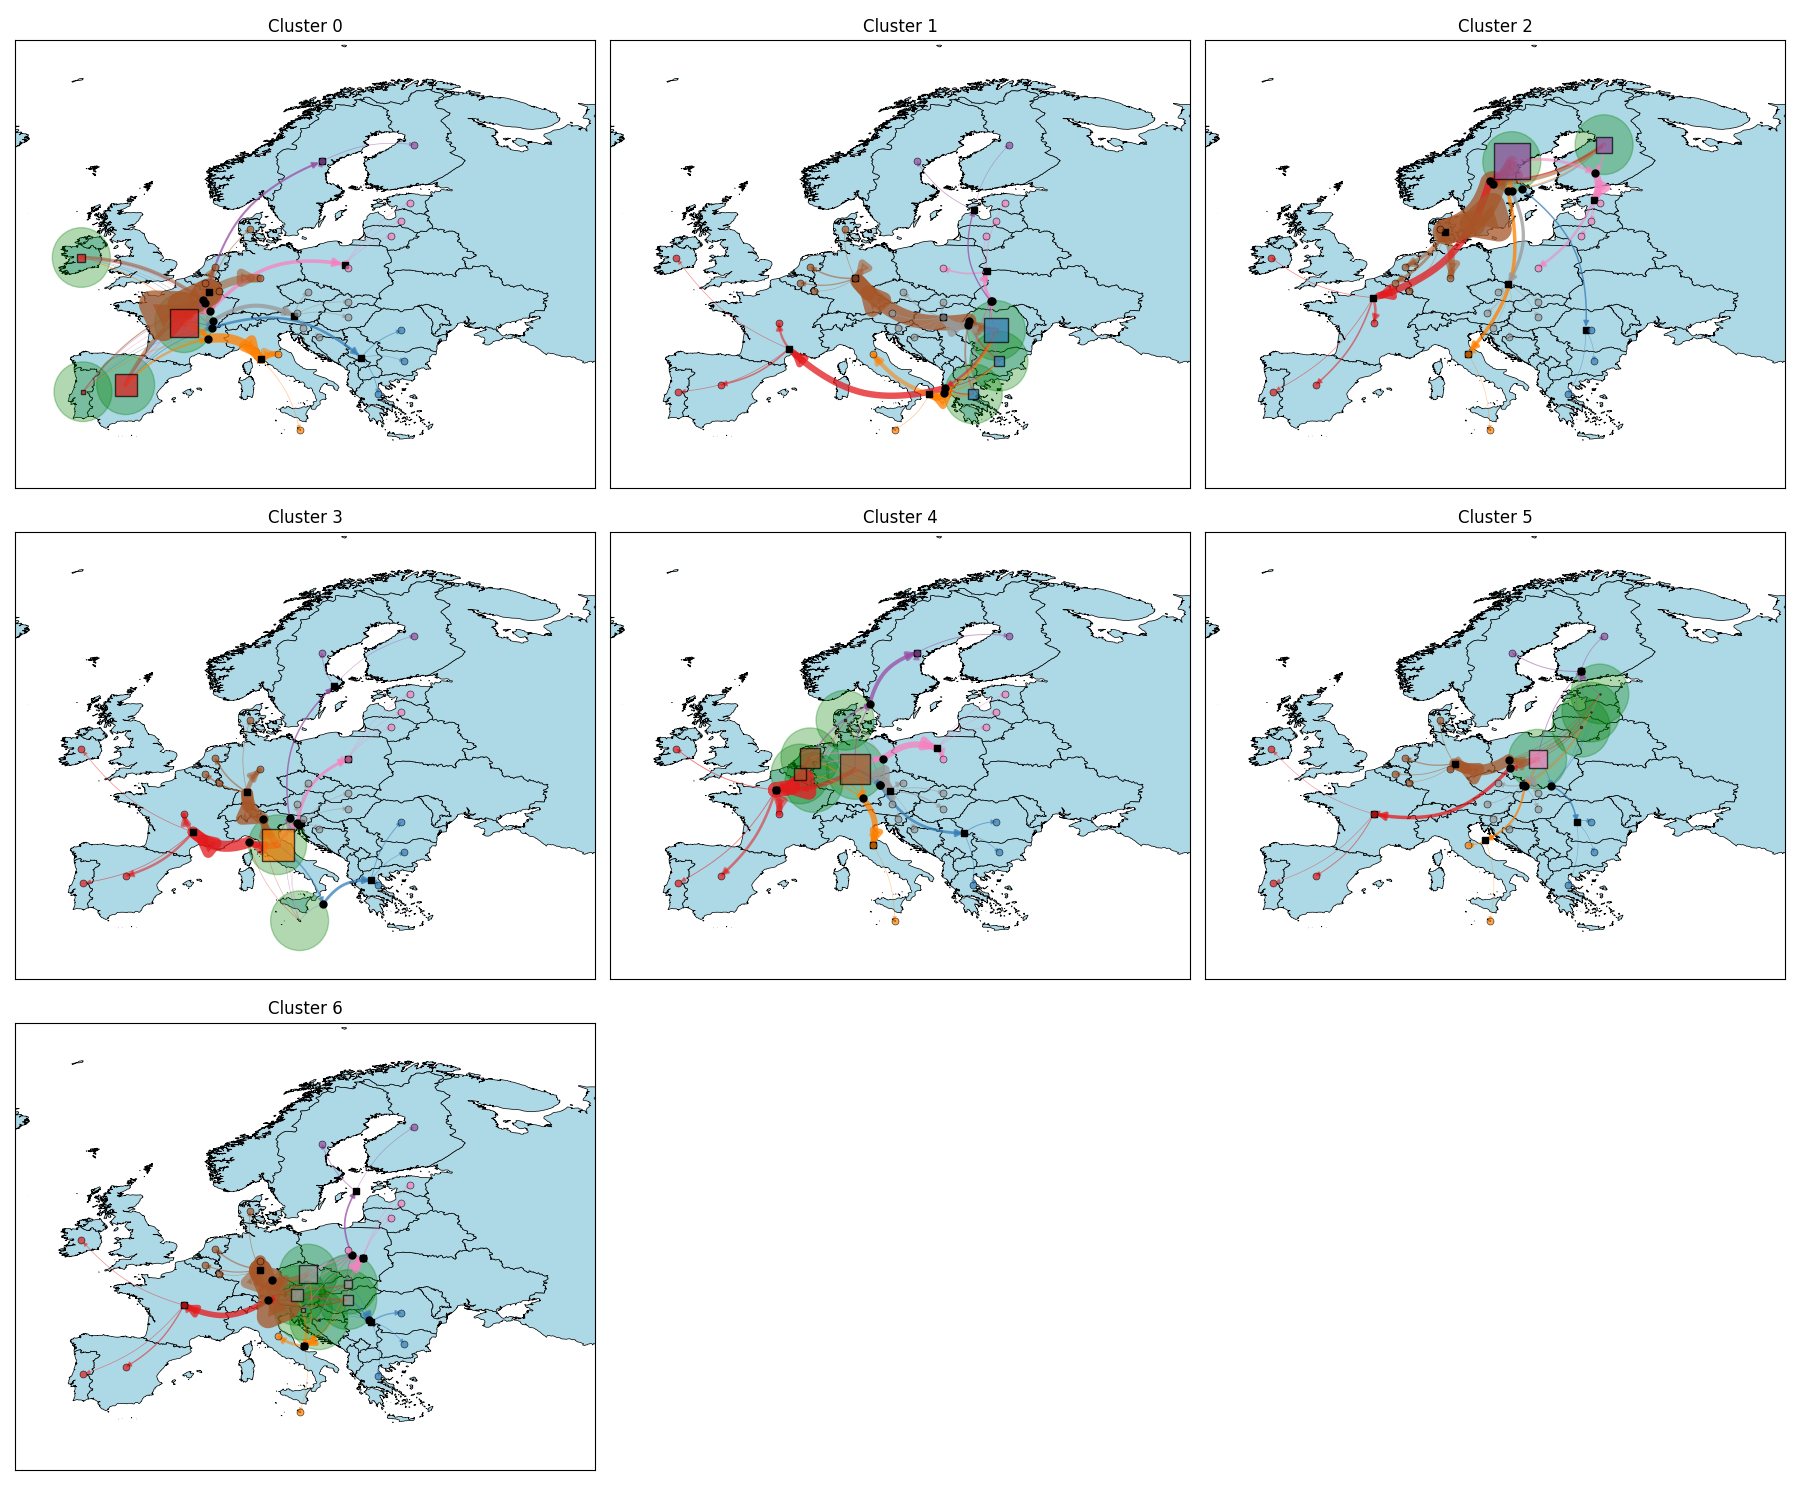
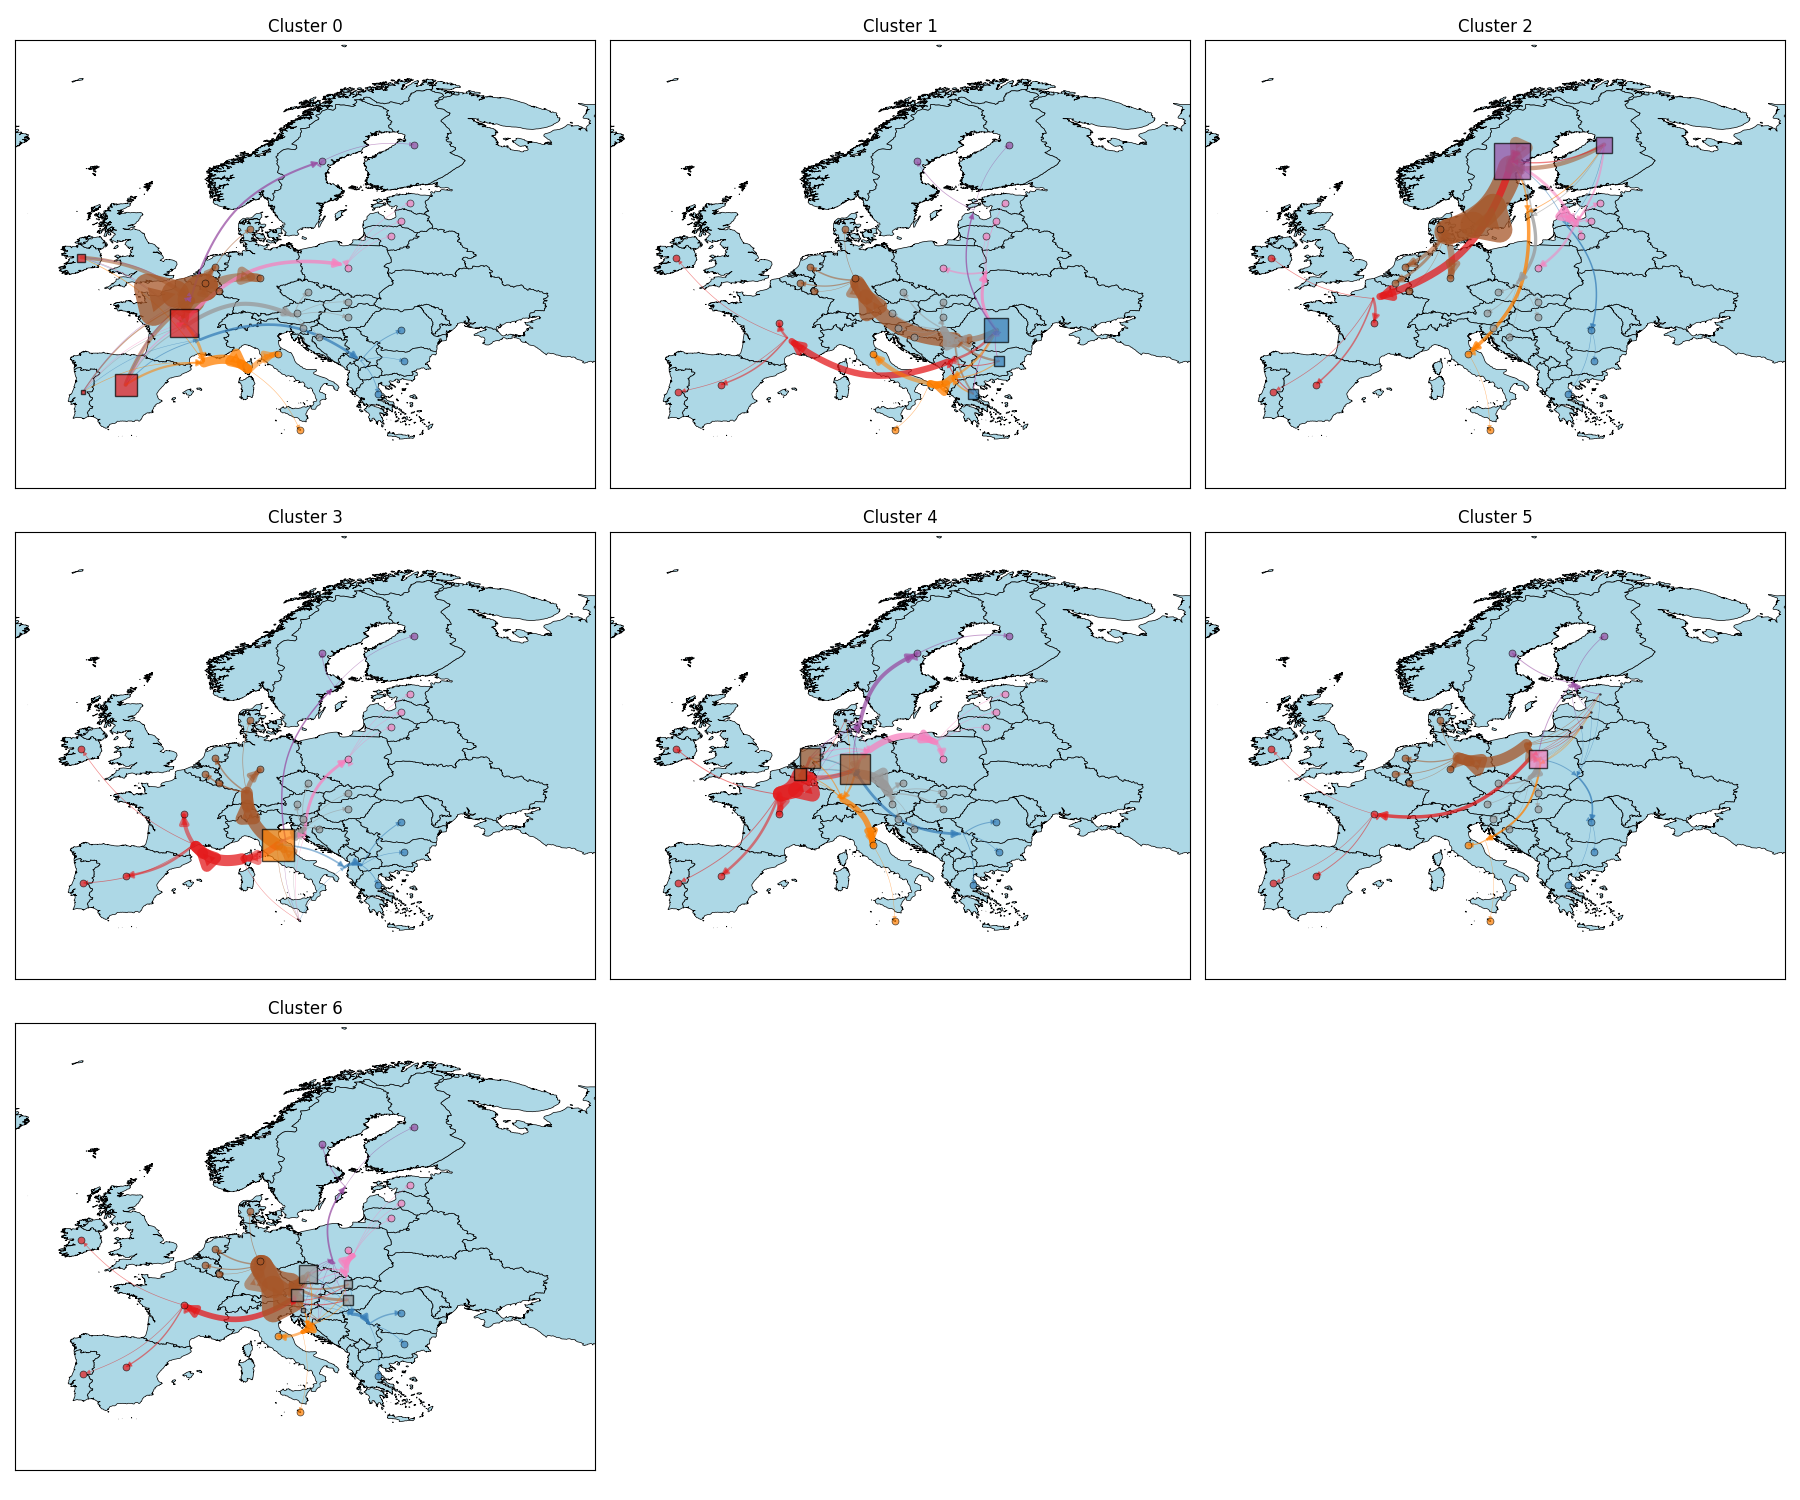
Removed feasible circles & debug markers

diff --git a/modules/edge_bundling_multiple.py b/modules/edge_bundling_multiple.py
@@ -565,13 +565,14 @@ def matplotlib_map_bundled(gdf, data, centroid_table, clusters, bundle_radius=3.
                 zorder=6, alpha=0.7)
 
     # Debug markers: bundle (●) and split (■) points
-    for (src_cid, dst_cid), info in bs.items():
-        ax.plot(*info['bundle'], 'o', color='black', markersize=5, zorder=5)
-        ax.plot(*info['split'],  's', color='black', markersize=5, zorder=5)
+    #for (src_cid, dst_cid), info in bs.items():
+    #    ax.plot(*info['bundle'], 'o', color='black', markersize=5, zorder=5)
+    #    ax.plot(*info['split'],  's', color='black', markersize=5, zorder=5)
 
     # TODO: REMOVE Vis after debugging
     # ── Draw Feasible Areas as Circles (Debugging) ──
     # Gather ALL source points globally to ensure exactly 1 circle per source
+    '''
     global_source_pts = [centroids[c] for c in source_countries if c in centroids]
 
     if global_source_pts:
@@ -587,6 +588,7 @@ def matplotlib_map_bundled(gdf, data, centroid_table, clusters, bundle_radius=3.
                 facecolor='green', alpha=0.3, edgecolor='green', zorder=2
             )
             ax.add_patch(circle)
+    '''
 
     ax.set_xlim([-15, 45])
     ax.set_ylim([30, 75])
